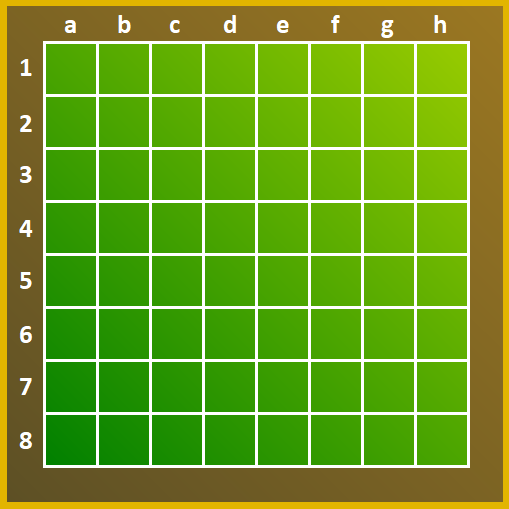
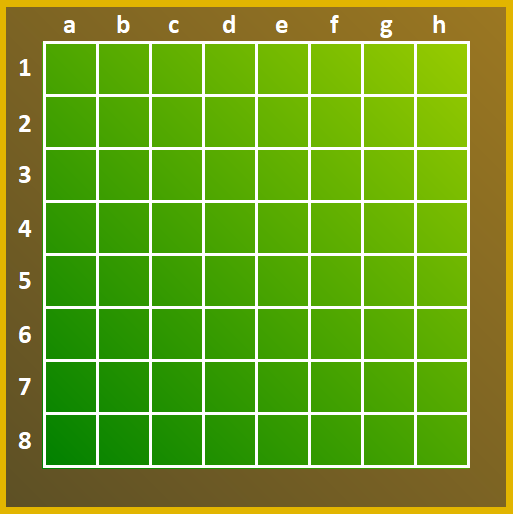
mod board8x8.png

diff --git a/css/style.css b/css/style.css
@@ -24,12 +24,11 @@ body {
 div#board table {
     margin: 0 auto;
     position: relative;
-    bottom: 491px;
-    left: 2px;
+    bottom: 492px;
 }
 
 div#board td {
     background: #000000;
-    height: 3.07rem;
-    width: 3.07rem;
+    height: 3.04rem;
+    width: 3.04rem;
 }
